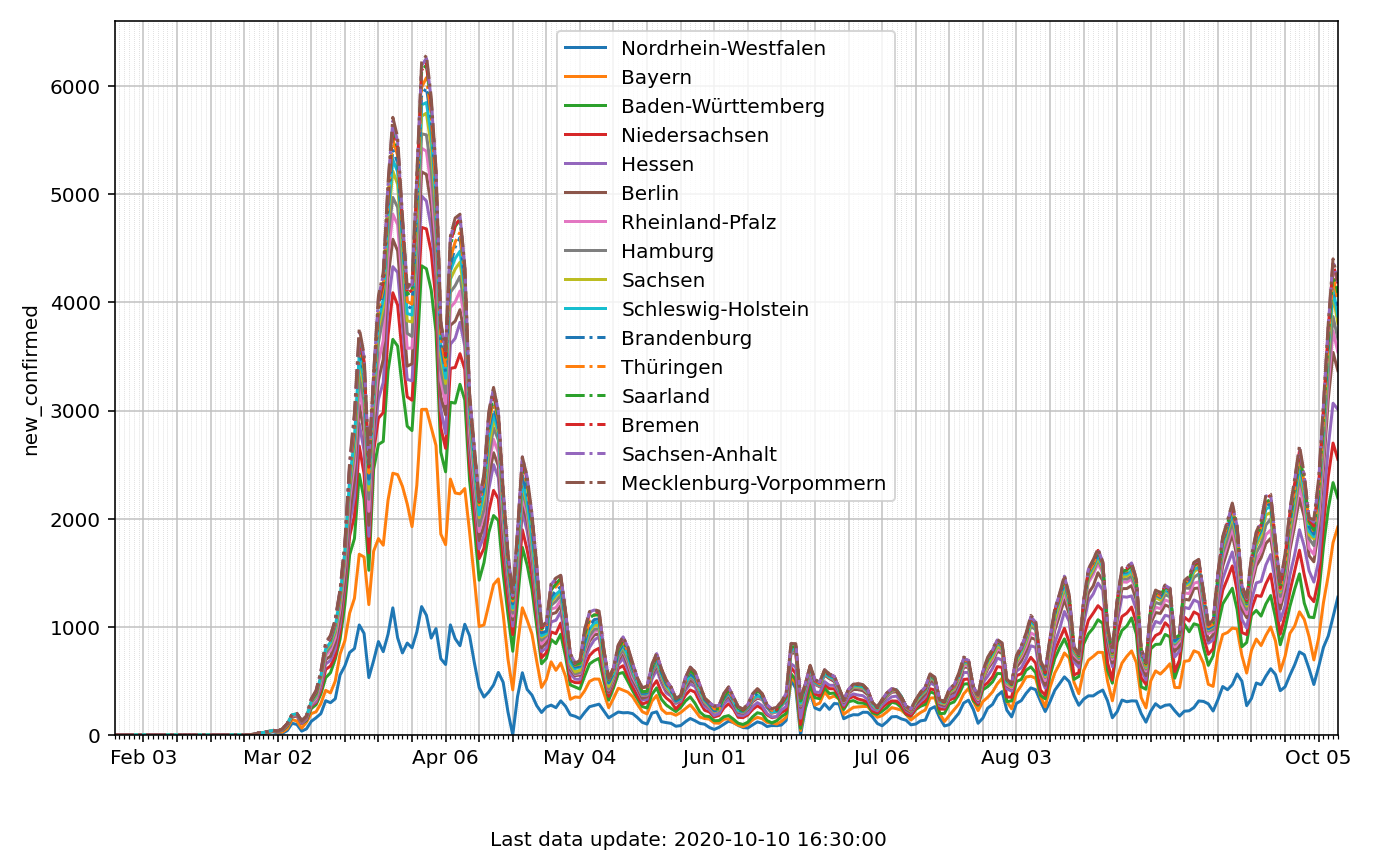
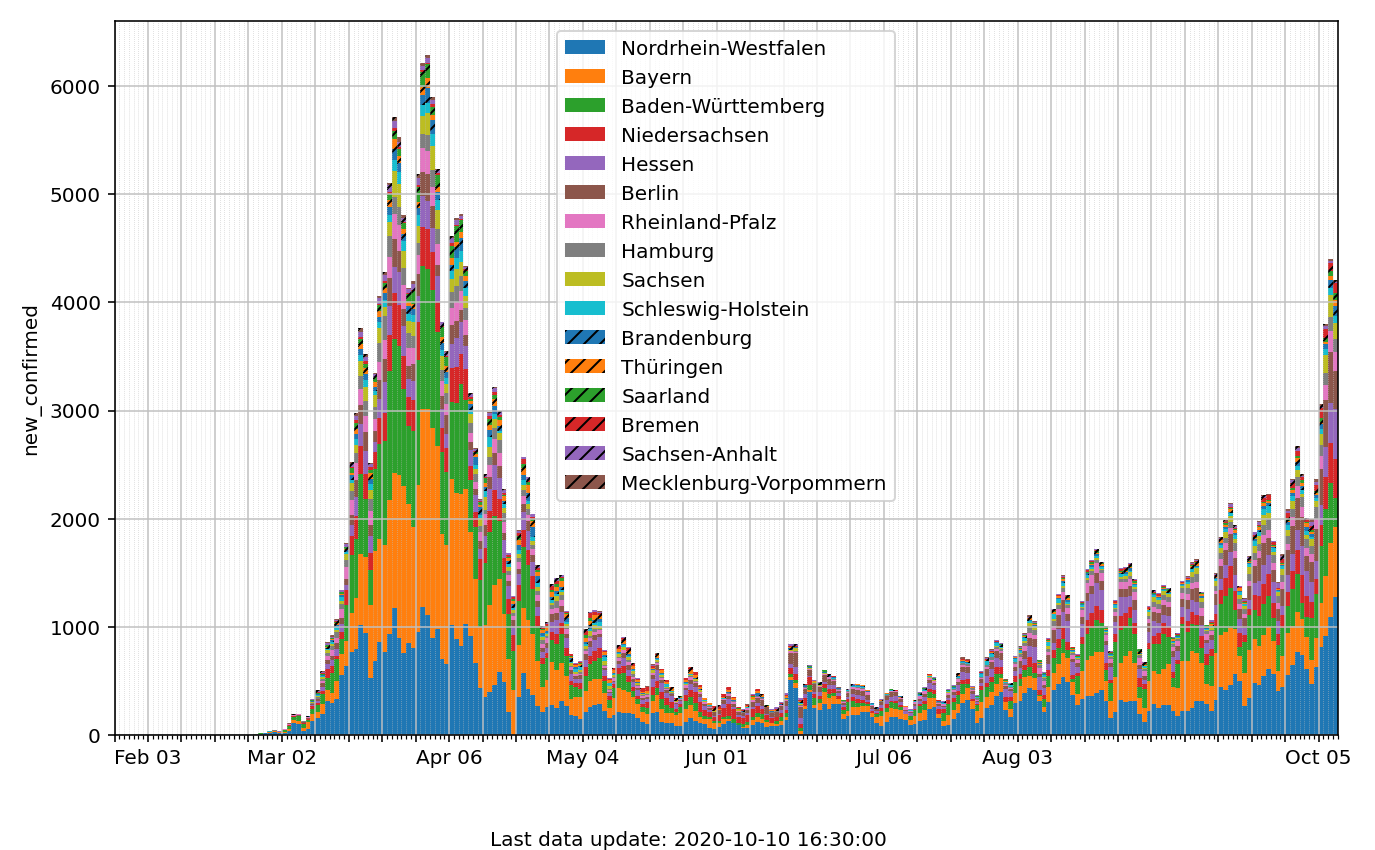
Change plotting new cases (stacked bargraph), add new confirmed cases per day in LSA

Changed region(s): [[0.0916, 0.0306, 0.9775, 0.9176]]

diff --git a/index.html b/index.html
@@ -70,6 +70,7 @@ $${\Delta}I_t = \frac{I_{t+1}-I_{t-1}}{2}$$
 
 ![Germany, New Confirmed Cases Per Day](local_new_confirmed_de.png)
 ![Germany, Saxony-Anhalt](local_confirmed_lsa.png)
+![Germany, Saxony-Anhalt, New Confirmed Cases Per Day](local_new_confirmed_lsa.png)
 ![Saxony-Anhalt, Estimated Active Cases](local_active_lsa.png)
 ![Germany, Thuringia](local_confirmed_th.png)
 

diff --git a/main.py b/main.py
@@ -4,6 +4,7 @@ import sys
 from datetime import datetime
 from itertools import islice
 
+import cycler
 from more_itertools import padnone
 
 sys.path.append(os.path.dirname(__file__) + '/..')
@@ -14,6 +15,7 @@ from typing import Union, Sequence, Callable, Tuple, Optional, Iterable
 import numpy as np
 import pandas as pd
 import plotkit.plotkit as pk
+import matplotlib as mpl
 import matplotlib.dates as mdates
 from tqdm import tqdm
 
@@ -119,7 +121,7 @@ def set_dateaxis(axs):
 
 
 def plot_dataframe(axs, df: pd.DataFrame, x: Optional = None, y: Optional[Iterable] = None,
-                   style: Optional[Iterable] = None, stacked=False):
+                   style: Optional[Iterable] = None, stacked=False, kind="line"):
     # for some reason df.plot() completely ruins datetime xaxis so no other formatter works
     # reinvent the wheel...
     if x is None:
@@ -135,11 +137,23 @@ def plot_dataframe(axs, df: pd.DataFrame, x: Optional = None, y: Optional[Iterab
     if style is None:
         style = []
     if stacked:
+        yvals_original = yvals.copy()
         yvals = yvals.cumsum(axis=1)
+    if kind == "bar":
+        styler = iter(cycler.cycler(hatch=[None, "///", "..."]) * mpl.rcParams["axes.prop_cycle"])
     cols = yvals.columns
     styletup = [(st,) if st else () for st in islice(padnone(iter(style)), len(cols))]
     for st, ci in zip(styletup, cols):
-        axs.plot(xvals, yvals[ci], *st, label=ci)
+        if kind == "line":
+            axs.plot(xvals, yvals[ci], *st, label=ci)
+        elif kind == "bar":
+            if stacked:
+                bot = (yvals[ci] - yvals_original[ci]).to_numpy()
+                bot[np.isnan(bot)] = 0.0
+                what = dict(height=yvals_original[ci], bottom=bot)
+            else:
+                what = dict(height=yvals[ci])
+            axs.bar(xvals, **what, linewidth=0, width=-1.0, align="edge", **next(styler), label=ci)
     axs.legend()
 
 
@@ -153,7 +167,6 @@ def add_dateanno(axs):
 
 
 def more_cyclers(axs):
-    import matplotlib as mpl
     axs.set_prop_cycle(mpl.rcsetup.cycler("linestyle", ["-", "-.", "--"]) * mpl.rcParams["axes.prop_cycle"])
 
 
@@ -278,7 +291,7 @@ class mopodata:
             fig, axs = pk.new_regular()
             more_cyclers(axs)
             pv = pivoted(entity_parent, field, maxn, order_total)
-            plot_dataframe(axs, pv, stacked=stack)
+            plot_dataframe(axs, pv, stacked=stack, kind="bar" if stack else "line")
             axs.set_ylabel(field)
             axs.annotate("Last data update: " + str(pv.last_modified), xy=(0.5, 0), xycoords="figure fraction",
                          ha="center", va="bottom")
@@ -292,6 +305,7 @@ class mopodata:
 
         kreise_plot("Sachsen-Anhalt", "lsa")
         kreise_plot("Sachsen-Anhalt", "lsa", field="active")
+        kreise_plot("Sachsen-Anhalt", "lsa", field="new_confirmed", maxn=20, stack=True, order_total=-1)
         kreise_plot("Thüringen", "th")
         kreise_plot("Deutschland", "de", field="new_confirmed", maxn=20, stack=True, order_total=-1)
         kreise_plot("Deutschland", "de", field="new_infected", maxn=20, stack=True, order_total=-1)
